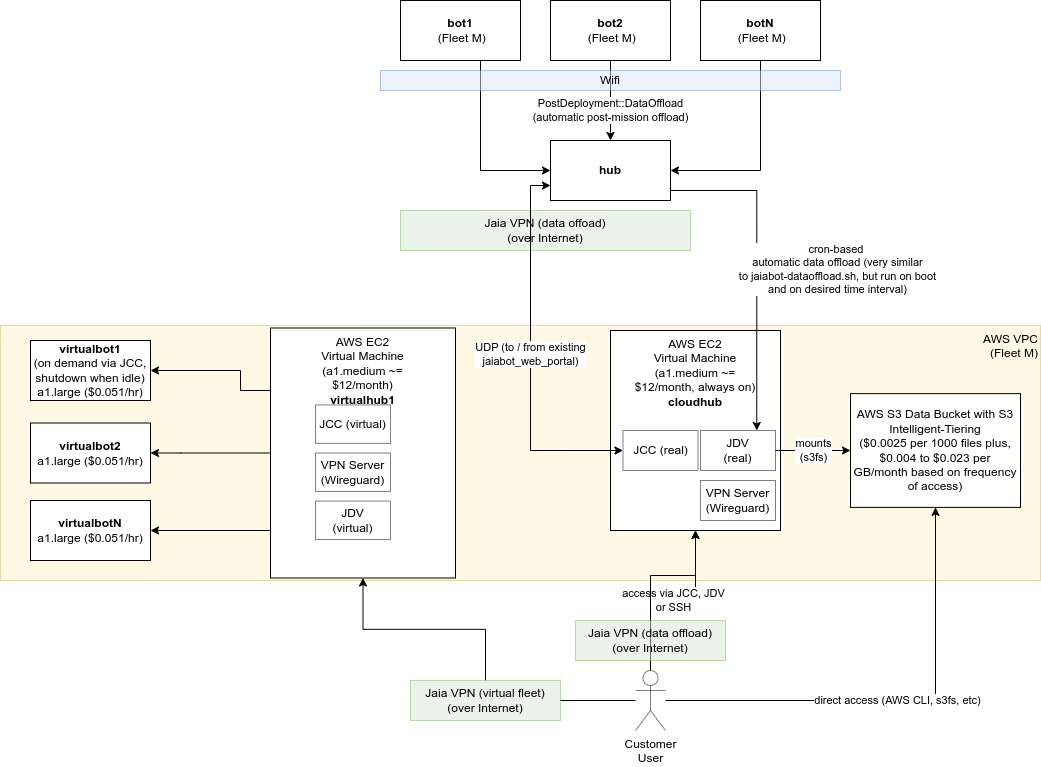
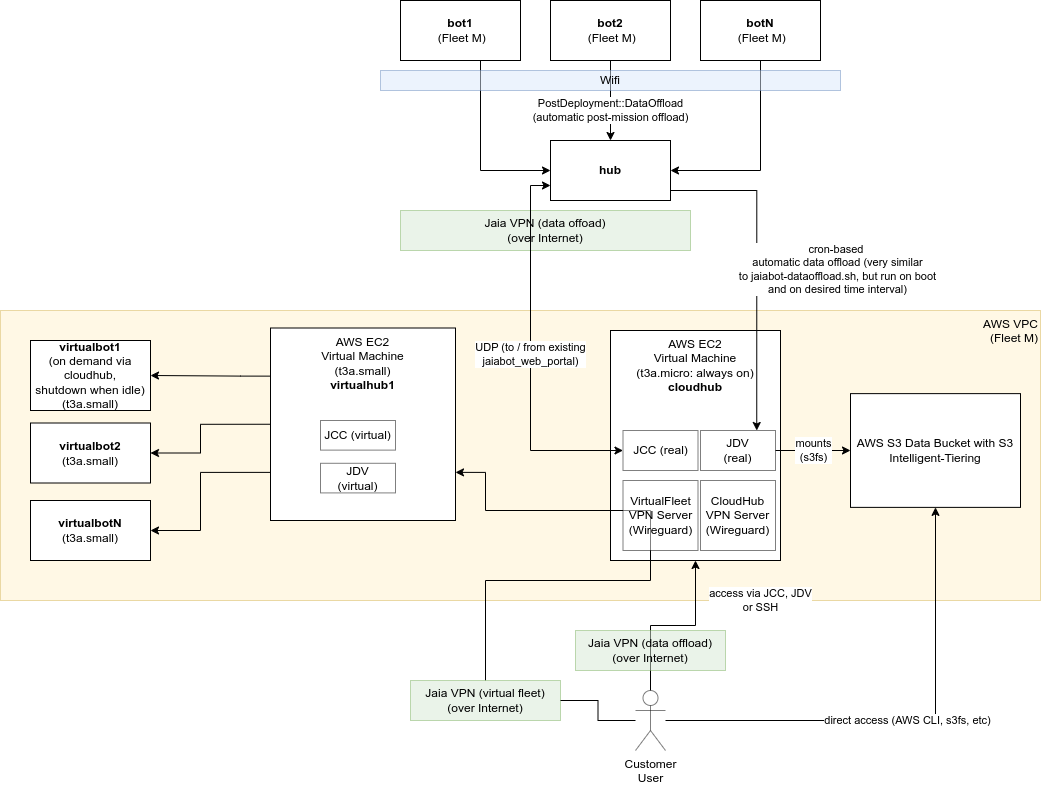
Small updates to ansible jobs on VirtualFleet. Update to documentation

diff --git a/src/doc/markdown/page56_cloud.md b/src/doc/markdown/page56_cloud.md
@@ -1,20 +1,59 @@
 # Cloud Computing
 
 The Jaia Cloud is designed to provide:
-- remote access to simulated fleets (intended to be a nearly identical "digital twin" of the corresponding real fleet, if one exists) for user training and scenario planning.
-- remote mission planning and control of real fleets over the internet.
-- remote access to data storage, analysis and visualization.
+- VirtualFleet: remote access to simulated fleets (intended to be a nearly identical "digital twin" of the corresponding real fleet, if one exists) for user training and scenario planning.
+- CloudHub: 
+	- remote mission planning and control of real fleets over the internet.
+	- remote access to data storage, analysis and visualization.
+	- control (start/stop/delete/create) of VirtualFleet
+
+It is possible to have a VirtualFleet without a corresponding real fleet or vice-versa. 
 
 ![](../figures/jaia-fleet-in-the-cloud.png)
 
+
 ## Definitions
 
+### Jaia Terms
 - Cloud - remote internet-connected on-demand computing provided (in this case) by Amazon Web Services (AWS) on the Elastic Compute Cloud (EC2) virtual machine system.
+- CloudHub - Essentially a "copy" (or secondary hub) of the real fleet's hub (or primary hub) that lives in the cloud rather than in the physical hub hardware. This can send commands / receive data from the real fleet efficiently. It is also used to manage the VirtualFleet. This machine is always-on.
 - VirtualFleet -  a set of VirtualBots and VirtualHubs that run in the cloud on virtual machines.
 - VirtualBot - an amd64 version of the real bot that differs in that all the sensors/actuation are hooked up to simulators rather than the real hardware.
 - VirtualHub - Similar to VirtualBot, just for a hub.
-- CloudHub - Essentially a "copy" (or secondary hub) of the real fleet's hub (or primary hub) that lives in the cloud rather than in the physical hub hardware. This can send commands / receive data from the real fleet efficiently. 
 
+### Amazon Web Services (AWS) Terms
+
+- EC2 - Elastic Compute Cloud: AWS's Virtual Machine infrastructure.
+- S3 - Simple Storage Service: AWS's data storage in the cloud with variable access latencies and corresponding costs.
+- VPC - Virtual Private Cloud: a collection of networking components (subnets, internet gateways, firewall rules, etc) in an isolated environment from other VPCs that might exist in Jaia's or a customer's EC2 account for a given region.
+
+## Architecture
+
+Each VPC has one and only one fleet. At a minimum this is a CloudHub machine, which is always on.
+
+
+### VPC 
+
+The components of the VPC include:
+
+- Subnets:
+	+ jaia__Subnet_CloudHub: A subnet for Cloudhub alone.
+	+ jaia__Subnet_VirtualFleet_WLAN: A subnet for the VirtualFleet (uses the same private IP addresses as the real fleet's wireless LAN.
+- Route tables:
+	+ jaia__RouteTable: A simple routing table that sends all non LAN traffic to the internet gateway.
+- Internet gateway:
+	+ jaia__InternetGateway: A simple internet gateway with default configuration.
+- Elastic IPs:
+	+ jaia__CloudHub_VM__ElasticIP: A public IPv4 address for access to CloudHub.
+- Security Groups (Firewalls):
+	+ jaia__SecurityGroup_CloudHub: Allows access to VPNs only running on CloudHub.
+	+ jaia__SecurityGroup_VirtualFleet: Allows access only within private network (jaia__Subnet_VirtualFleet_WLAN).
+- Instances (Virtual Machines):
+	+ CloudHub
+		* CloudHub VPN
+		* VirtualFleet VPN
+	+ (optionally) VirtualHub1
+	+ (optionally) VirtualBot1-N
 
 ## Network addresses
 
@@ -22,9 +61,9 @@ The use of the `ip.py` tool (in `jaiabot-rootfs-gen/customization/includes.chroo
 
 The network address assignment for the Jaia Cloud is intended to complement the existing fleet specific [VPN](page55_vpn.md). This means that a given fleet may have up to three VPN subnets assigned:
 
-1. "fleet VPN": The fleet VPN for remote support (vpn.jaia.tech) - UDP port 51821 + fleet ID
-2. "virtualfleet VPN": The virtual fleet VPN for access to the "digital twin" virtual fleet - UDP port 51820
-3. "cloudhub VPN": The data offload / remote control VPN for access to the real fleet from the CloudHub - UDP port 51821
+1. Real "fleet VPN": The fleet VPN for remote support (vpn.jaia.tech) - UDP port 51821 + fleet ID. Managed by vpn.jaia.tech.
+2. "VirtualFleet VPN": The virtual fleet VPN for access to the "digital twin" virtual fleet - UDP port 51820. Managed by the fleet's CloudHub.
+3. "cloudhub VPN": The data offload / remote control VPN for access to the real fleet from the CloudHub - UDP port 51821. Managed by the fleet's CloudHub.
 
 These all need to be different because:
 
@@ -32,11 +71,10 @@ These all need to be different because:
 - Some customers will not have a VirtualFleet at all.
 - Some customers may want to restrict access to the Cloudhub to a different set of users than those who have access to the VirtualFleet (e.g., trainees not able to accidentally command real fleet).
 
-Additionally, each VPC has three subnets assigned:
+Additionally, each VPC has two subnets assigned as previously mentioned:
 
 1. CloudHub Subnet: 10.23.255.0/24 and 2001:db8:0:**0**::/64 where 2001:db8::/56 is replaced by the Amazon EC2 assigned IPv6 block for the VPC.
-2. VirtualFleet ETH0 Subnet: 10.23.254.0/24 and 2001:db8:0:**1**::/64 where 2001:db8::/56 is replaced by the Amazon EC2 assigned IPv6 block for the VPC.
-3. VirtualFleet WLAN Subnet: 10.23.{flt}.0/24 and 2001:db8:0:**2**::/64 where 2001:db8::/56 is replaced by the Amazon EC2 assigned IPv6 block for the VPC.
+2. VirtualFleet WLAN Subnet: 10.23.{flt}.0/24 and 2001:db8:0:**2**::/64 where 2001:db8::/56 is replaced by the Amazon EC2 assigned IPv6 block for the VPC.
 
 ### IPv4 
 
@@ -96,5 +134,13 @@ Some examples include:
 
 ### VM Instances
 
-- Name: jaia__CloudHub_VM__CUSTOMER_NAME, jaia__VirtualHubN_VM__CUSTOMER_NAME, or jaia__VirtualBotN_VM__CUSTOMER_NAME
-- jaia_instance_type: cloudhub, virtualfleet
+- all:
+	- Name: jaia__CloudHub_VM__CUSTOMER_NAME, jaia__VirtualHubN_VM__CUSTOMER_NAME, or jaia__VirtualBotN_VM__CUSTOMER_NAME
+	- jaia_instance_type: cloudhub, virtualfleet
+- VirtualBot/VirtualHub:
+	+ jaia_node_id: Bot ID or Hub ID
+	+ jaia_node_type: "bot" or "hub"
+
+## Provisioning
+
+The VPC and CloudHub are created by a bash script 
